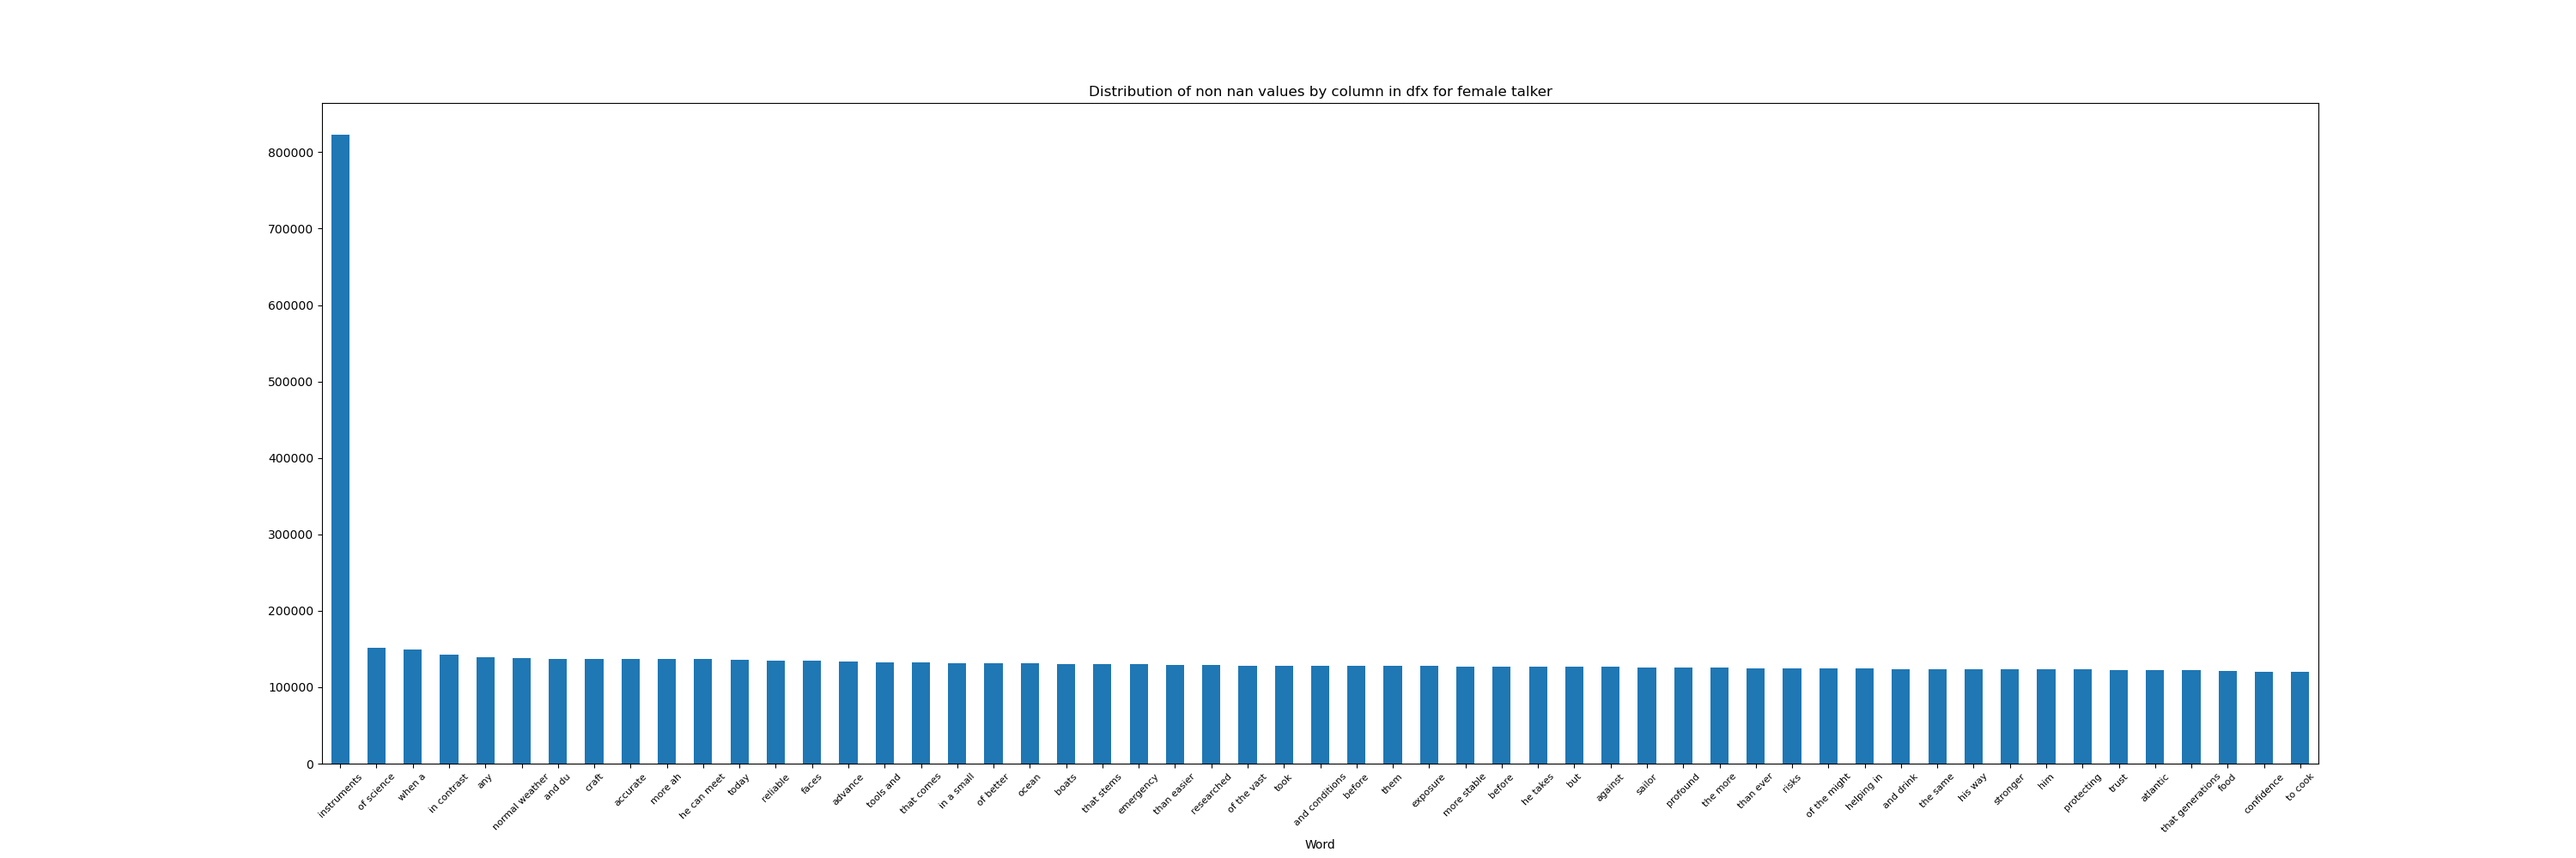
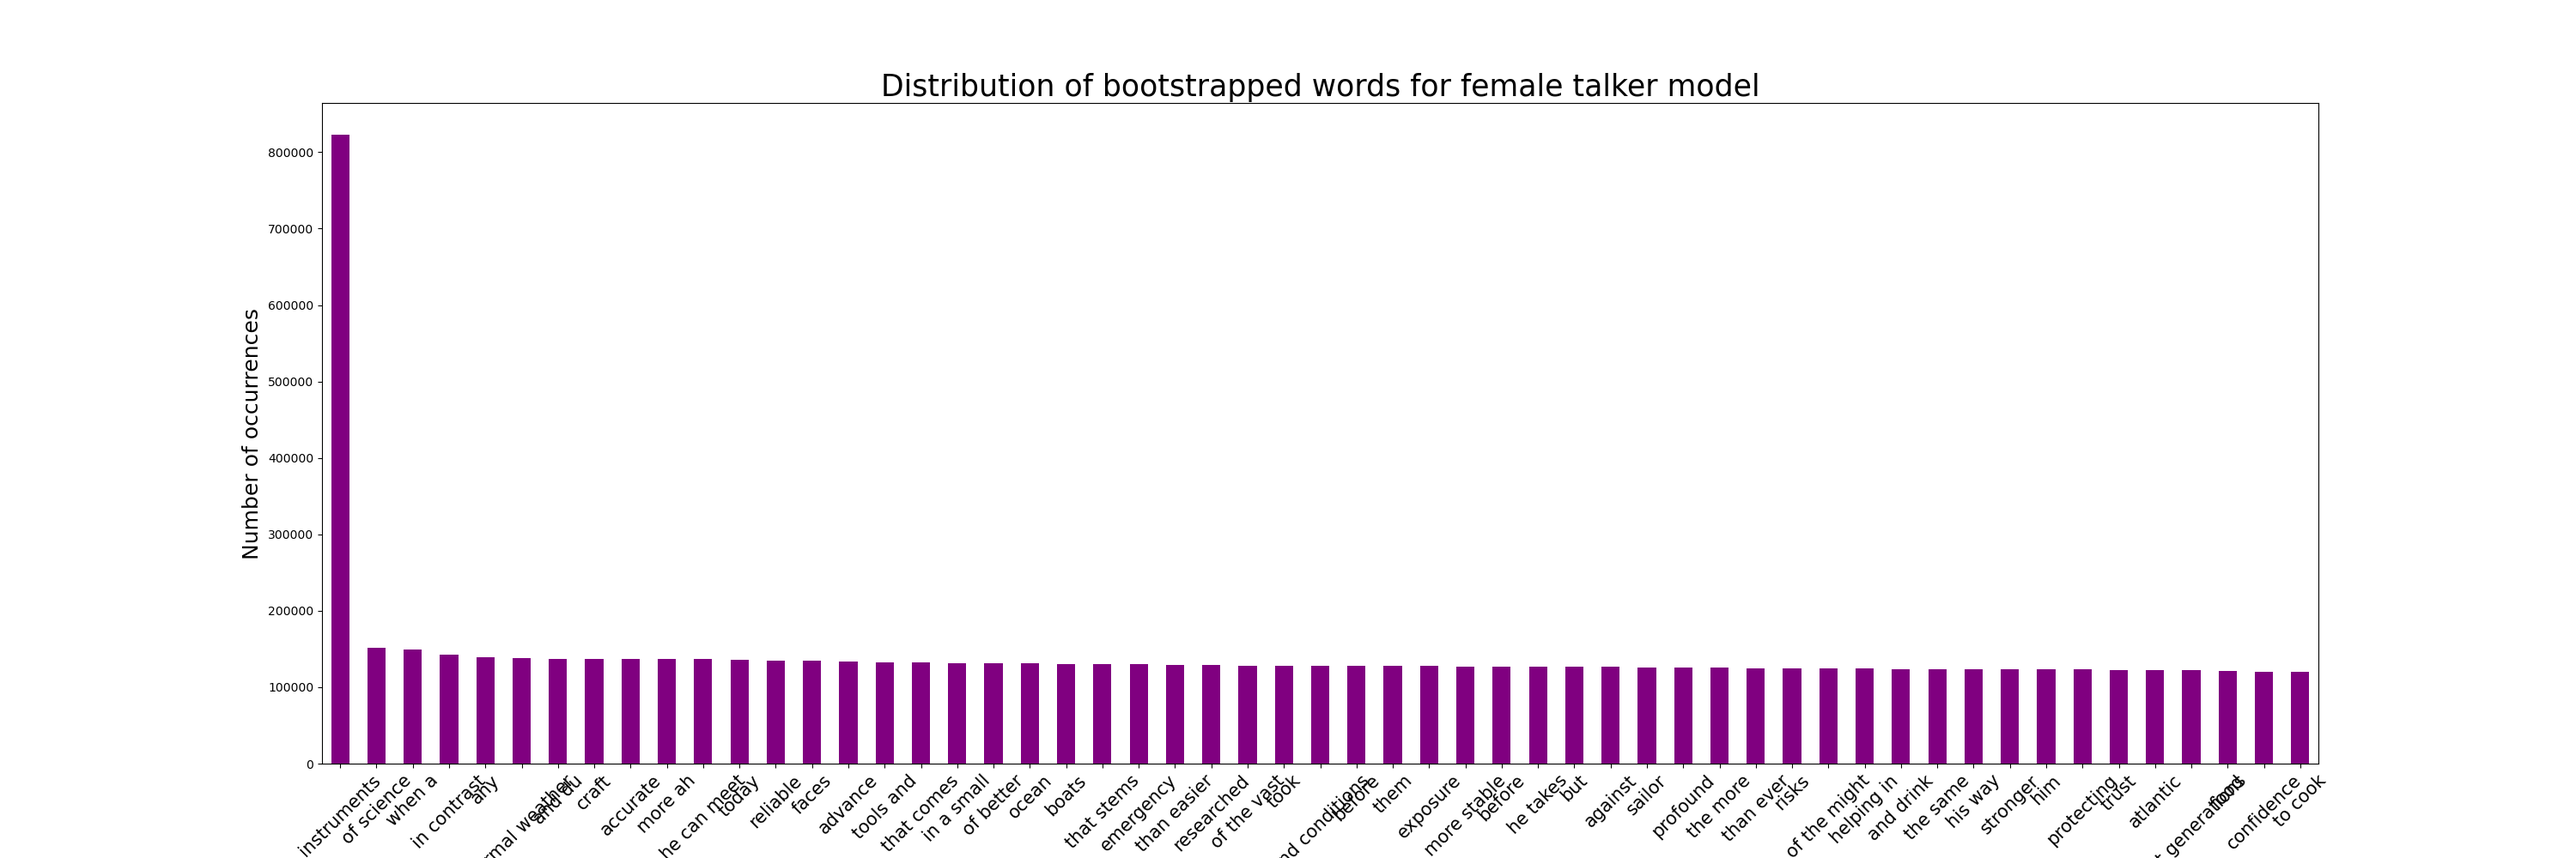
formatting titles

Changed region(s): [[0.124, 0.155, 0.899, 1.0], [0.341, 0.093, 0.682, 0.124]]

diff --git a/models/runfalsealarmmodel.py b/models/runfalsealarmmodel.py
@@ -512,6 +512,7 @@ def plotfalsealarmmodel(xg_reg, ypred, y_test, results, X_train, y_train, X_test
     cax.tick_params(labelsize=15)
     cax.set_ylabel("Time since start of trial", fontsize=12)
     plt.title('Time since start of trial', fontsize=18)
+    ax.set_ylabel('Impact on p(FA)', fontsize=18)
     ax.set_xticks([1, 2, 3, 4, 5])
     ax.set_xticklabels(['109', '124', '144', '191', '251'], fontsize=18, rotation=45)
     plt.savefig(fig_dir / 'F0bytimestart_supplemental.png', dpi=500, bbox_inches='tight')
@@ -529,6 +530,8 @@ def plotfalsealarmmodel(xg_reg, ypred, y_test, results, X_train, y_train, X_test
     # cax.set_yticks([0, 1, 2, 3, 4])
     # cax.set_yticklabels(['F1702', 'F1815', 'F1803', 'F2002', 'F2105'], fontsize=18, rotation=45)
     plt.title('Trial number', fontsize=18)
+    ax.set_ylabel('Impact on p(FA)', fontsize=18)
+
     ax.set_xticks([1, 2, 3, 4, 5])
     ax.set_xticklabels(['109', '124', '144', '191', '251'], fontsize=18, rotation=45)
     plt.savefig(fig_dir / 'F0bytrialnum_supplemental.png', dpi=500, bbox_inches='tight')
@@ -547,6 +550,8 @@ def plotfalsealarmmodel(xg_reg, ypred, y_test, results, X_train, y_train, X_test
     cax.set_yticklabels(['F1702', 'F1815', 'F1803', 'F2002', 'F2105'], fontsize=18, rotation=45)
     plt.title('Ferret ID', fontsize=18)
     ax.set_xticks([1, 2, 3, 4, 5])
+    ax.set_ylabel('Impact on p(FA)', fontsize=18)
+
     ax.set_xticklabels(['109', '124', '144', '191', '251'], fontsize=18, rotation=45)
     plt.savefig(fig_dir / 'F0byferretID_supplemental.png', dpi=500, bbox_inches='tight')
     # plt.xlim(0.8, 5.2)
@@ -763,7 +768,7 @@ def plotfalsealarmmodel(xg_reg, ypred, y_test, results, X_train, y_train, X_test
     cax.tick_params(labelsize=15)
     cax.set_yticks([1, 2, 3, 4, 5])
     cax.set_yticklabels(['109', '124', '144', '191', '251'])
-    cax.set_ylabel("F0", fontsize=12)
+    cax.set_ylabel("F0 (Hz)", fontsize=12)
     # ax_dict['C'].set_xlim(0.8, 5.2)
 
     ax_dict['C'].set_xlabel('talker', fontsize=16)

diff --git a/models/reactiontimeforFAandtargmodel.py b/models/reactiontimeforFAandtargmodel.py
@@ -834,9 +834,9 @@ def extract_releasedata_withdist(ferrets, talker=1):
     sorted_idx_distlabels = df_dist_counts.argsort()
     df_dist_counts = df_dist_counts.sort_values(ascending=False)
     if talker == 1:
-        talker_color = 'r'
+        talker_color = 'purple'
     else:
-        talker_color = 'b'
+        talker_color = 'orange'
     df_dist_counts.plot.bar(ax=ax, color = talker_color)
     ax.set_xlabel('Word', fontsize = 18)
     ax.set_ylabel('Number of occurrences', fontsize = 18)
@@ -844,10 +844,10 @@ def extract_releasedata_withdist(ferrets, talker=1):
     ax.set_xticks(np.arange(0, 55, 1))
     if talker == 1:
         ax.set_xticklabels(np.flip(np.array(female_word_labels)[sorted_idx_distlabels]), rotation=45, fontsize=15)
-        plt.title('Distribution of bootstrapped words for female talker', fontsize = 25)
+        plt.title('Distribution of bootstrapped words for female talker model', fontsize = 25)
     else:
         ax.set_xticklabels(np.flip(np.array(male_word_labels)[sorted_idx_distlabels]), rotation=45, fontsize=15)
-        plt.title('Distribution of bootstrapped words for male talker', fontsize = 25)
+        plt.title('Distribution of bootstrapped words for male talker model', fontsize = 25)
 
     plt.savefig(
         'D:\mixedeffectmodelsbehavioural\models/figs/absolutereleasemodel/distribution_non_nan_values_by_column_dfx_talker' + str(
@@ -999,7 +999,7 @@ def predict_rxn_time_with_dist_model(ferrets, optimization=False, ferret_as_feat
 def main():
     ferrets = ['F1702_Zola', 'F1815_Cruella', 'F1803_Tina', 'F2002_Macaroni', 'F2105_Clove']  # , 'F2105_Clove']
 
-    predict_rxn_time_with_dist_model(ferrets, optimization=False, ferret_as_feature=True, talker=1)
+    predict_rxn_time_with_dist_model(ferrets, optimization=False, ferret_as_feature=True, talker=2)
 
     # for ferret in ferrets:
     #     predict_rxn_time_with_dist_model([ferret], optimization=False, ferret_as_feature=False, talker = 1)
